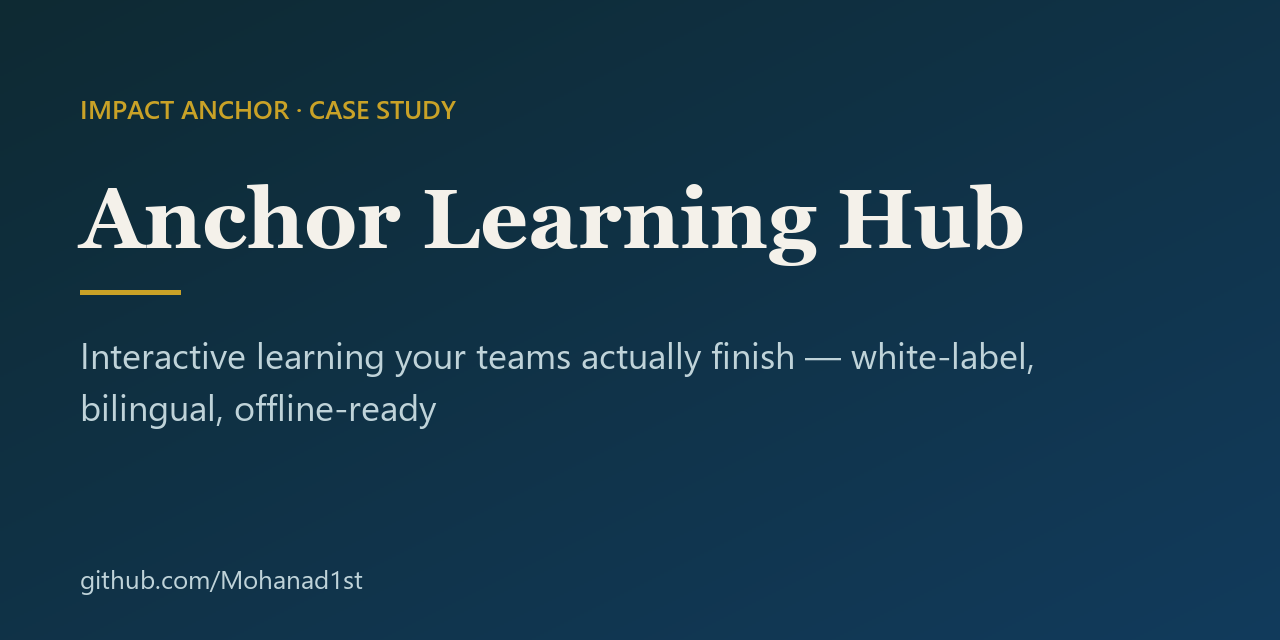
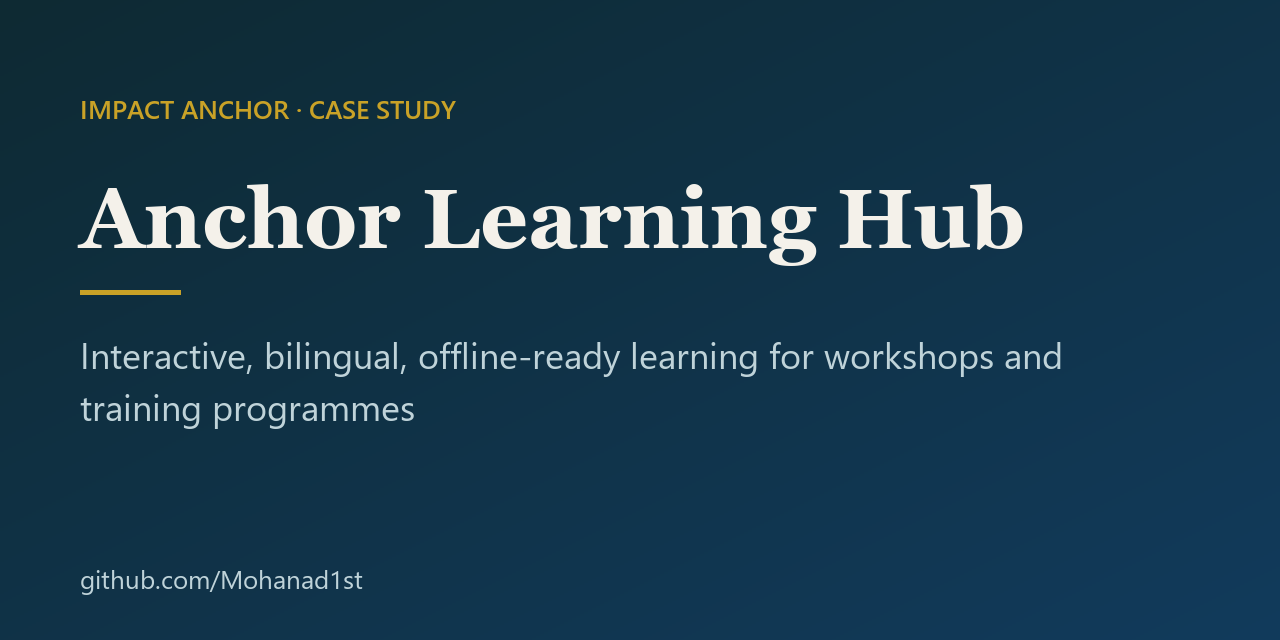
docs: tighten claims and privacy wording after review
Softens claims that went beyond current state, removes screens and bullets that described still-open work, adds per-project privacy notes.

Changed region(s): [[0.1875, 0.5312, 0.8438, 0.5938], [0.0625, 0.625, 0.3438, 0.6875]]

diff --git a/README.md b/README.md
@@ -1,10 +1,10 @@
-<p align="center"><img src="assets/banner.svg" alt="Anchor Learning Hub — Interactive learning your teams actually finish — white-label, bilingual, offline-ready" width="100%"></p>
+<p align="center"><img src="assets/banner.svg" alt="Anchor Learning Hub — Interactive, bilingual, offline-ready learning for workshops and training programmes" width="100%"></p>
 
-<p align="center"><b>Status:</b> Live demo · deployed per client &nbsp;·&nbsp; <b>Built by</b> <a href="https://github.com/Mohanad1st">Mohannad Hesham</a> &nbsp;·&nbsp; <b>Source:</b> private</p>
+<p align="center"><b>Status:</b> Live demo · ready to deploy per client &nbsp;·&nbsp; <b>Built by</b> <a href="https://github.com/Mohanad1st">Mohannad Hesham</a> &nbsp;·&nbsp; <b>Source:</b> private</p>
 
 <p align="center" dir="rtl" lang="ar">تعلّم تفاعلي يكمله فريقك فعلًا</p>
 
-> **This is a showcase, not the code.** The source is private because the system handles real operations for real people. Nothing here is needed to run it, and nothing here reveals how it is secured. A live walkthrough is available on request.
+> **This is a showcase, not the code.** The source is private because it is a product template built for client deployments. This page shows what it does and how it was built, not the code itself. A live walkthrough is available on request.
 
 ## The problem
 
@@ -25,7 +25,7 @@ Workshops end and the slides are forgotten. Most training platforms are either a
 
 <p align="center"><img src="assets/screen-1.webp" alt="Overview (English)" width="92%"><br><sub>Overview (English)</sub></p>
 
-<p align="center"><img src="assets/screen-2.png" alt="The same page in Arabic, right-to-left" width="92%"><br><sub>The same page in Arabic, right-to-left</sub></p>
+<p align="center"><img src="assets/screen-2.png" alt="The Arabic, right-to-left version" width="92%"><br><sub>The Arabic, right-to-left version</sub></p>
 
 <p align="center"><img src="assets/screen-3.webp" alt="Track selection in the live demo" width="92%"><br><sub>Track selection in the live demo</sub></p>
 
